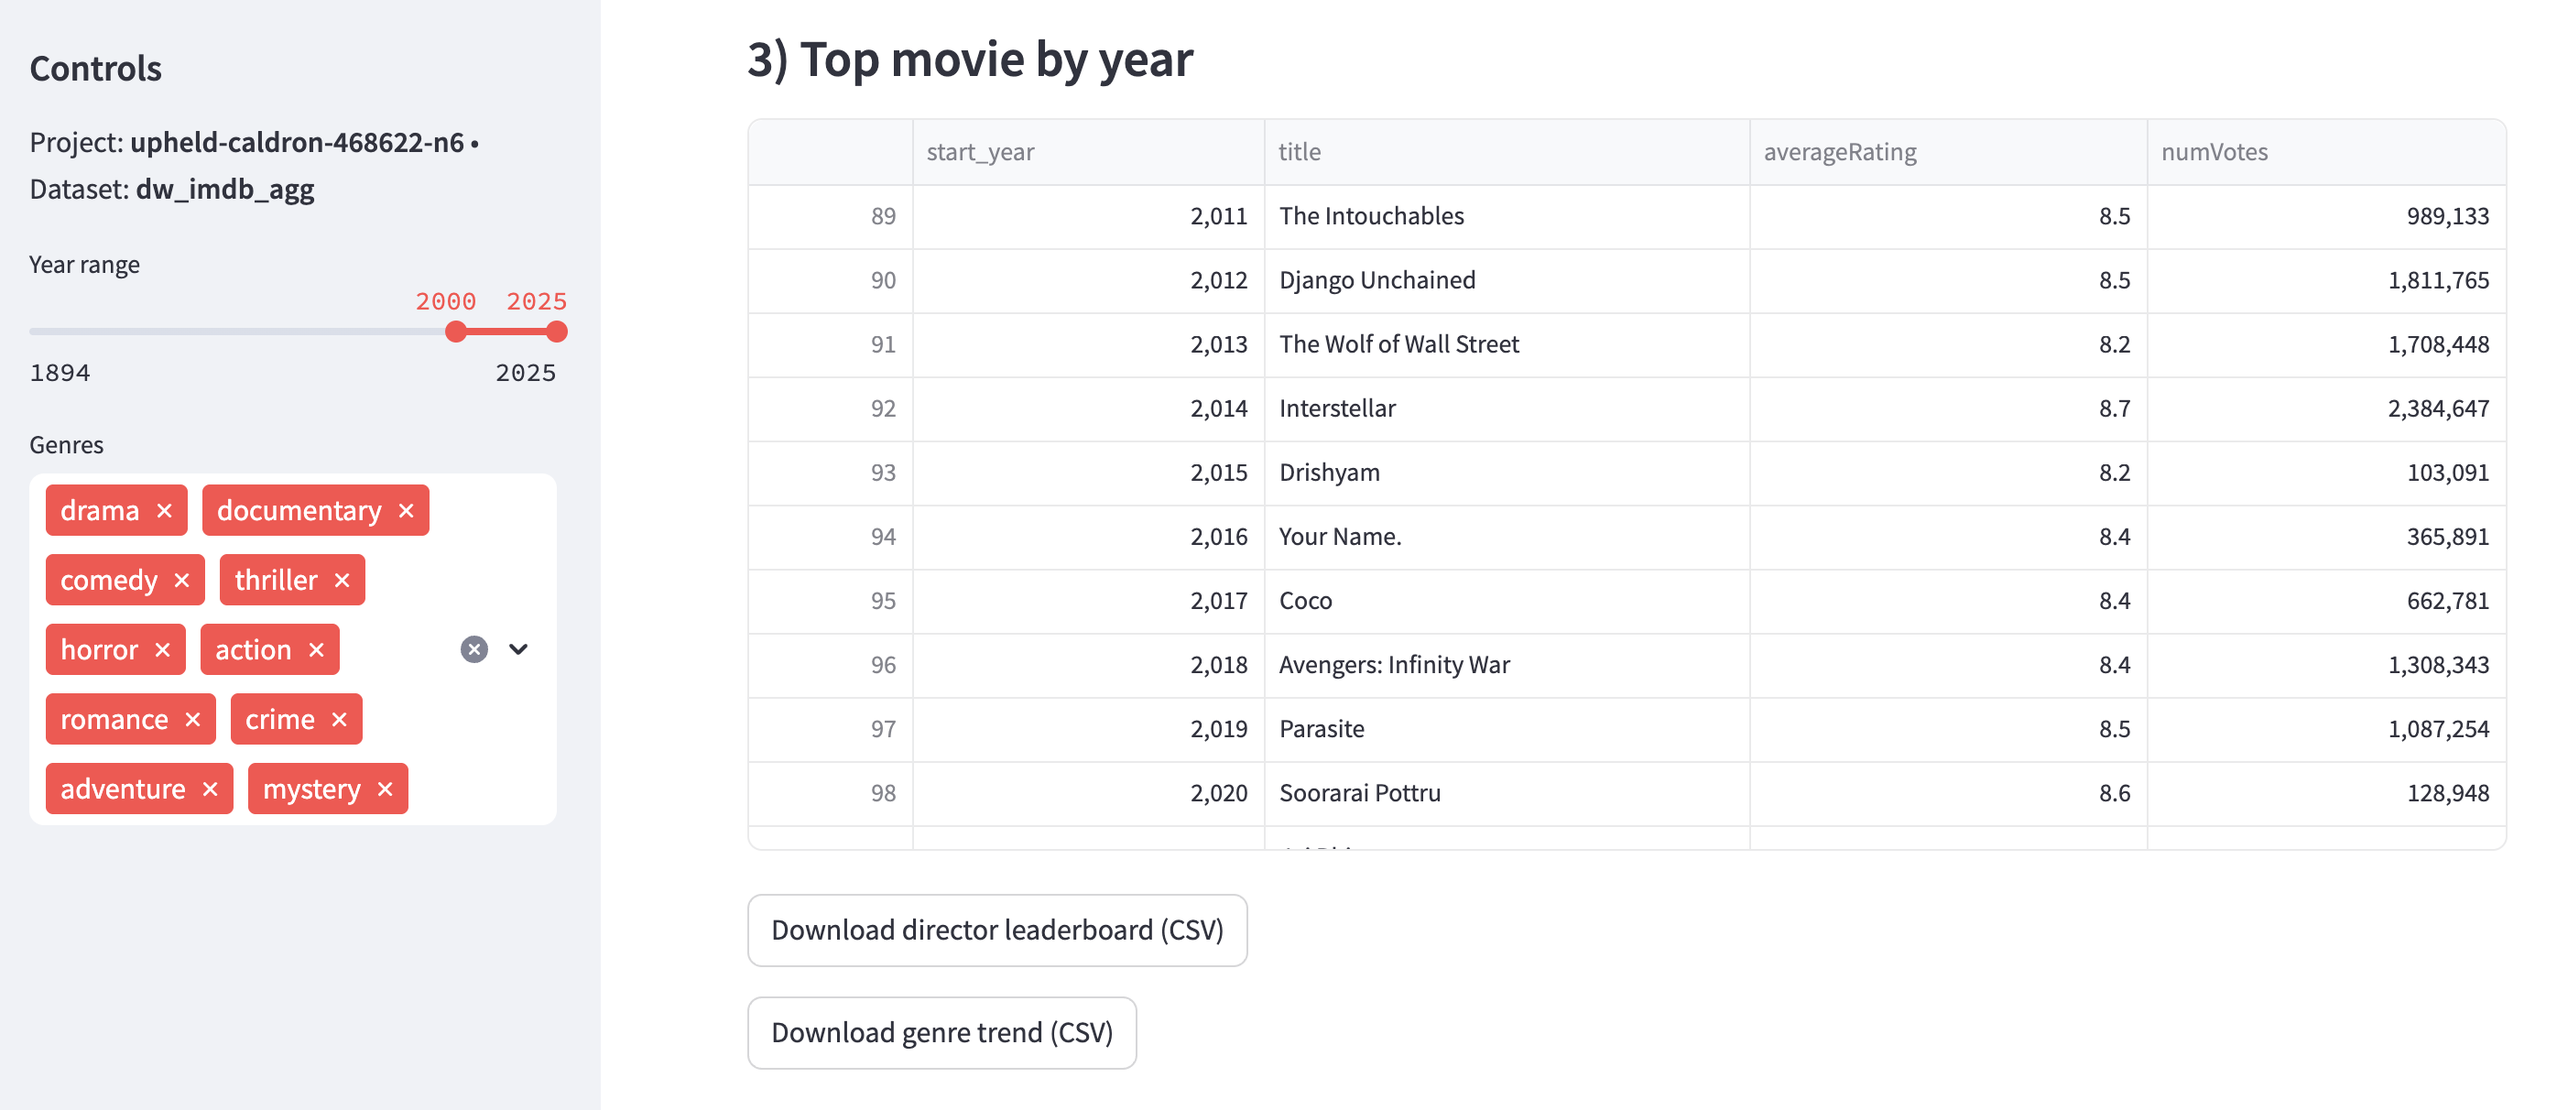
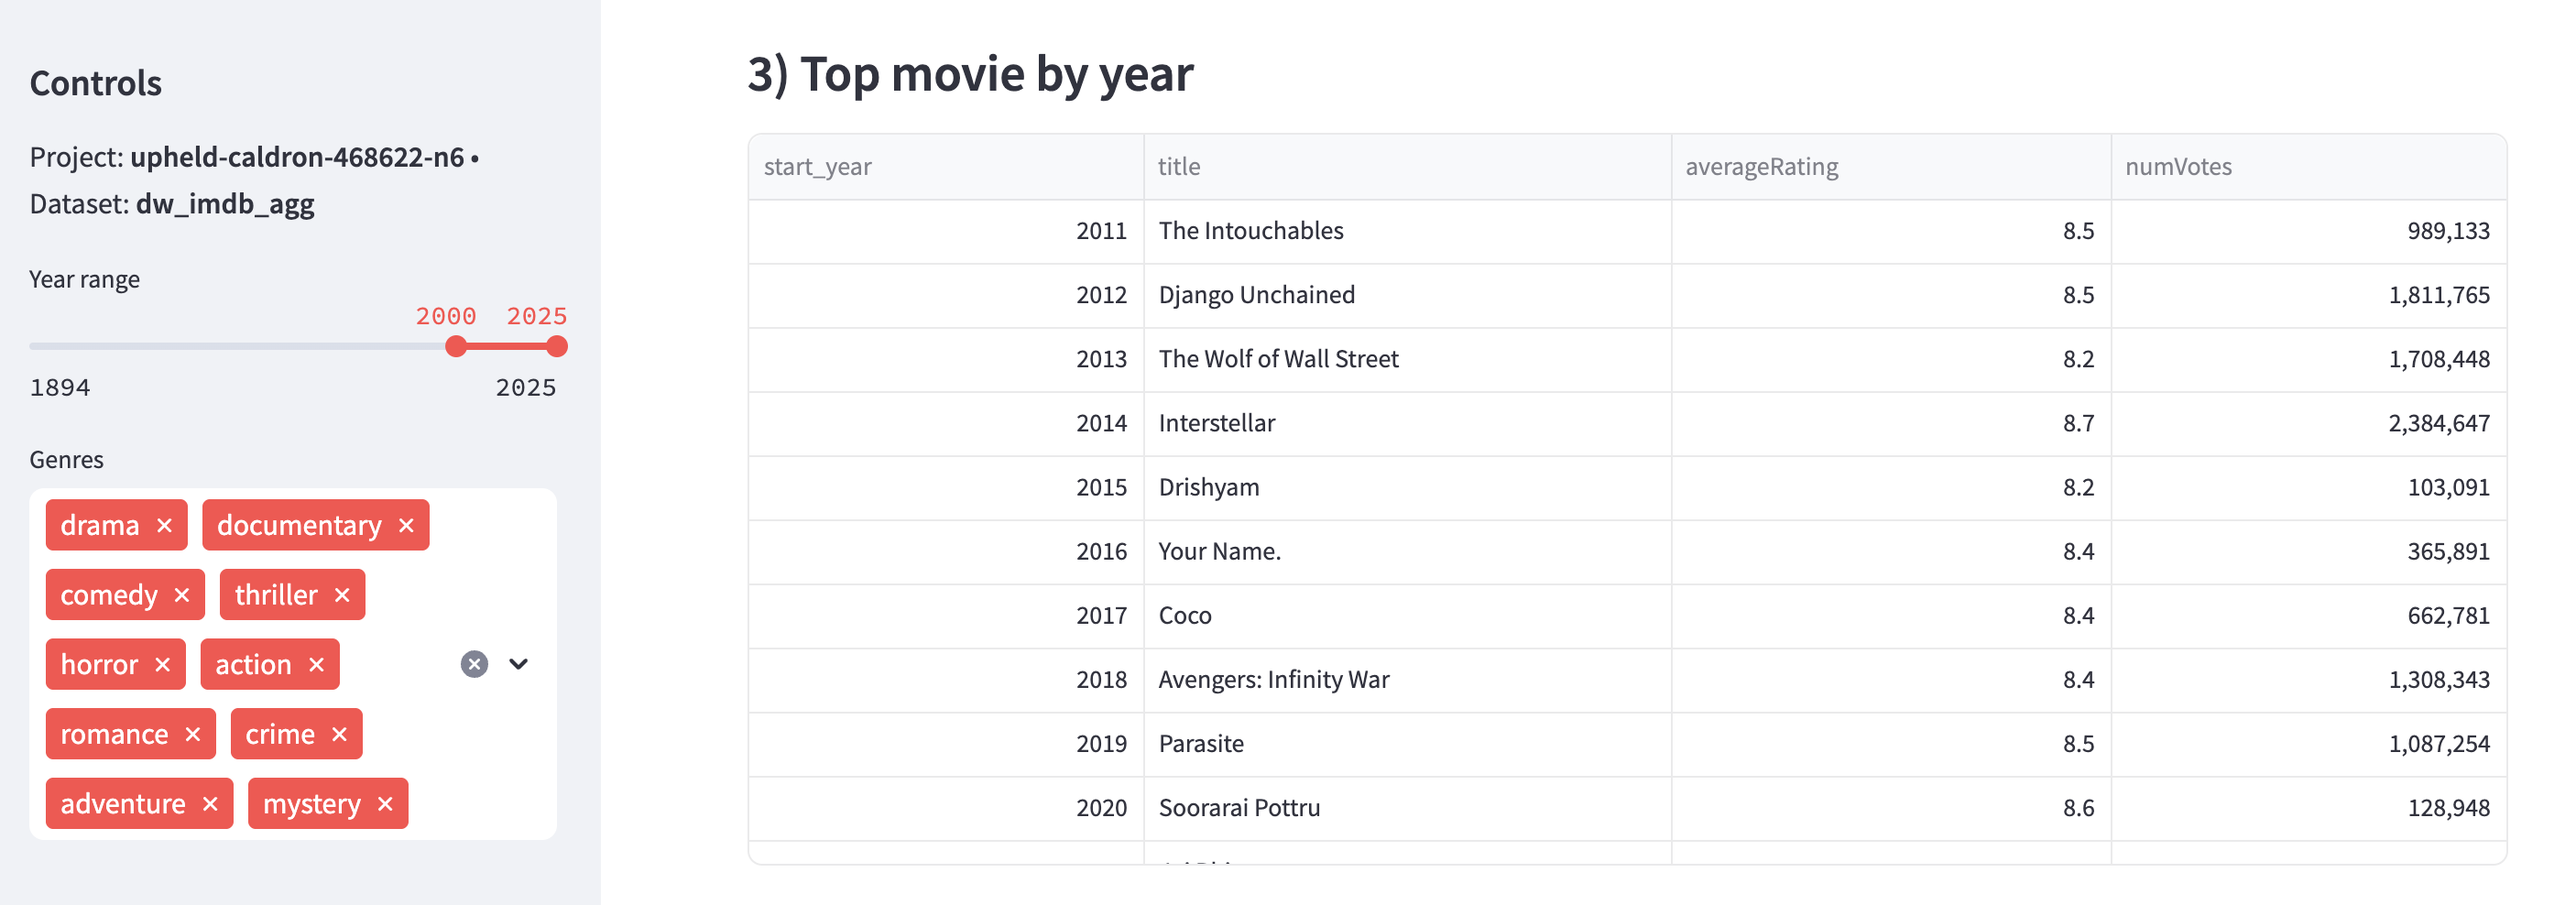
Updated code to format the year column without commas, and hid the index. Added an updated screenshot for a visual of these changes

diff --git a/viz/streamlit_app/app.py b/viz/streamlit_app/app.py
@@ -114,7 +114,16 @@ st.plotly_chart(fig3, use_container_width=True)
 
 st.markdown("### 3) Top movie by year")
 tby = query_top_movie_by_year()
-st.dataframe(tby.tail(15), use_container_width=True)
+
+st.dataframe(
+    tby.tail(15),
+    use_container_width=True,
+    hide_index=True,
+    column_config={
+        "start_year": st.column_config.NumberColumn("start_year", format="%d", step=1),
+    },
+)
+
 
 # Downloads
 st.download_button("Download director leaderboard (CSV)", dl.to_csv(index=False).encode("utf-8"),
